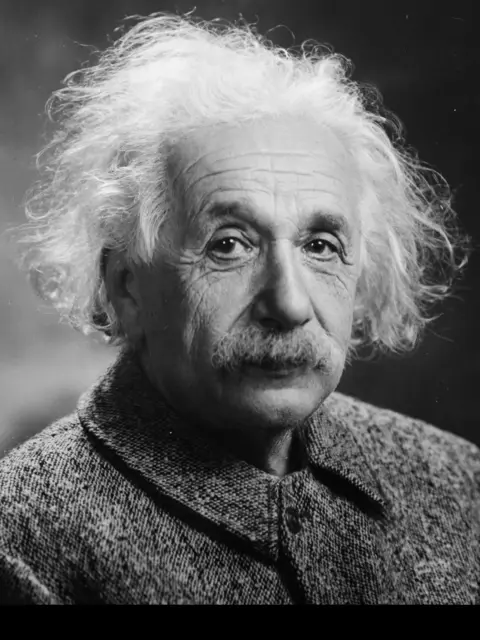
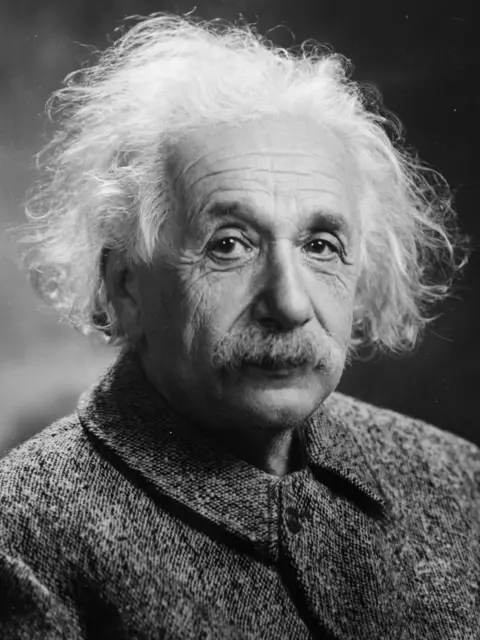
Manual deploy

Changed region(s): [[0.25, 0.9375, 1.0, 1.0], [0.0, 0.9375, 0.1875, 1.0]]

diff --git a/blog/2025/RESTFULAPI/index.html b/blog/2025/RESTFULAPI/index.html
@@ -352,22 +352,22 @@
 
 <ol>
   <li><a href="#1-system-overview--requirements">System Overview &amp; Requirements</a></li>
-  <li><a href="#2-architecture-design">Architecture Design</a></li>
-  <li><a href="#3-core-components">Core Components</a></li>
+  <li><a href="#2-architecture-design-balancing-performance-and-complexity">Architecture Design</a></li>
+  <li><a href="#3-core-components-data-structures-that-drive-performance">Core Components</a></li>
   <li>
-<a href="#4-high-performance-implementation">High-Performance Implementation</a>
+<a href="#4-high-performance-implementation-where-theory-meets-practice">High-Performance Implementation</a>
     <ul>
-      <li>4.1 <a href="#41-thread-safe-bounded-queues">Thread-Safe Bounded Queues</a>
+      <li>4.1 <a href="#41-thread-safe-bounded-queues-the-communication-backbone">Thread-Safe Bounded Queues</a>
 </li>
-      <li>4.2 <a href="#42-real-time-correlation-engine">Real-Time Correlation Engine</a>
+      <li>4.2 <a href="#42-real-time-correlation-engine-the-algorithmic-heart">Real-Time Correlation Engine</a>
 </li>
-      <li>4.3 <a href="#43-memory-mapped-writer">Memory-Mapped Writer</a>
+      <li>4.3 <a href="#43-memory-mapped-writer-eliminating-io-bottlenecks">Memory-Mapped Writer</a>
 </li>
-      <li>4.4 <a href="#44-adaptive-symbol-management">Adaptive Symbol Management</a>
+      <li>4.4 <a href="#44-adaptive-symbol-management-dynamic-prioritization">Adaptive Symbol Management</a>
 </li>
     </ul>
   </li>
-  <li><a href="#5-performance-optimizations">Performance Optimizations</a></li>
+  <li><a href="#5-design-philosophy-critical-performance-trade-offs">Performance Optimizations</a></li>
   <li><a href="#6-resilience--error-handling">Resilience &amp; Error Handling</a></li>
   <li><a href="#7-observability--monitoring">Observability &amp; Monitoring</a></li>
   <li><a href="#8-test-results--analysis">Test Results &amp; Analysis</a></li>
